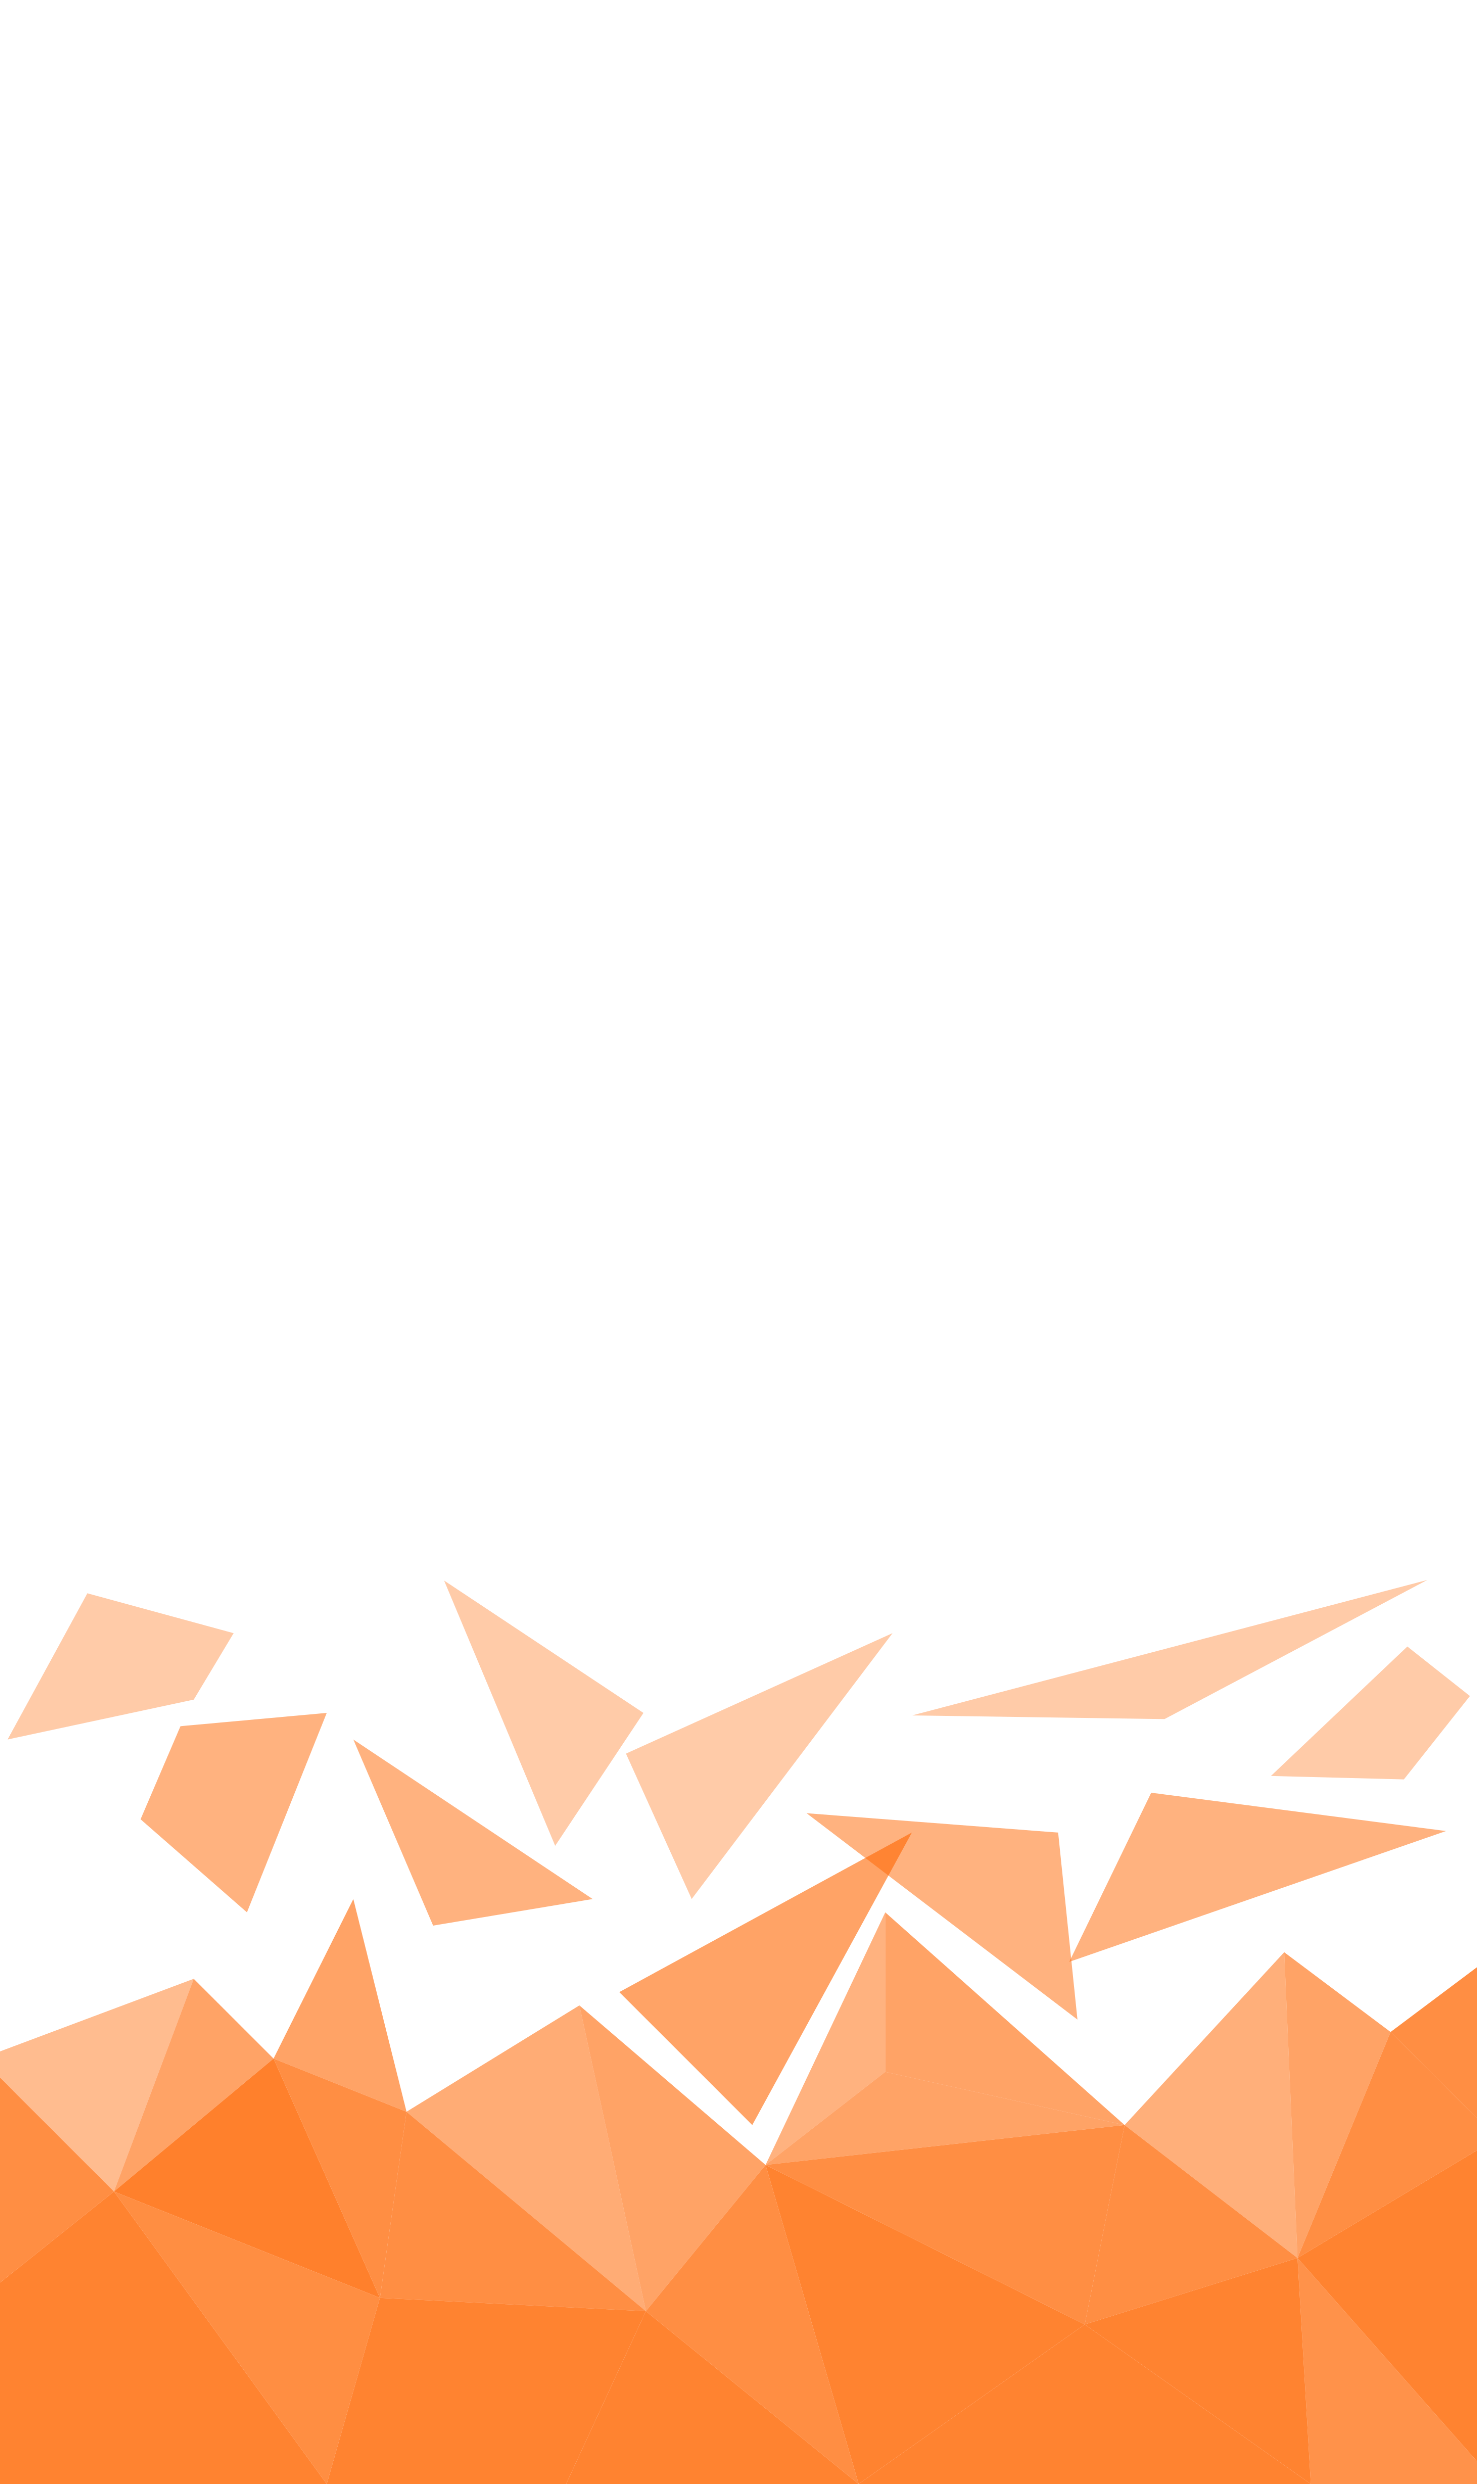
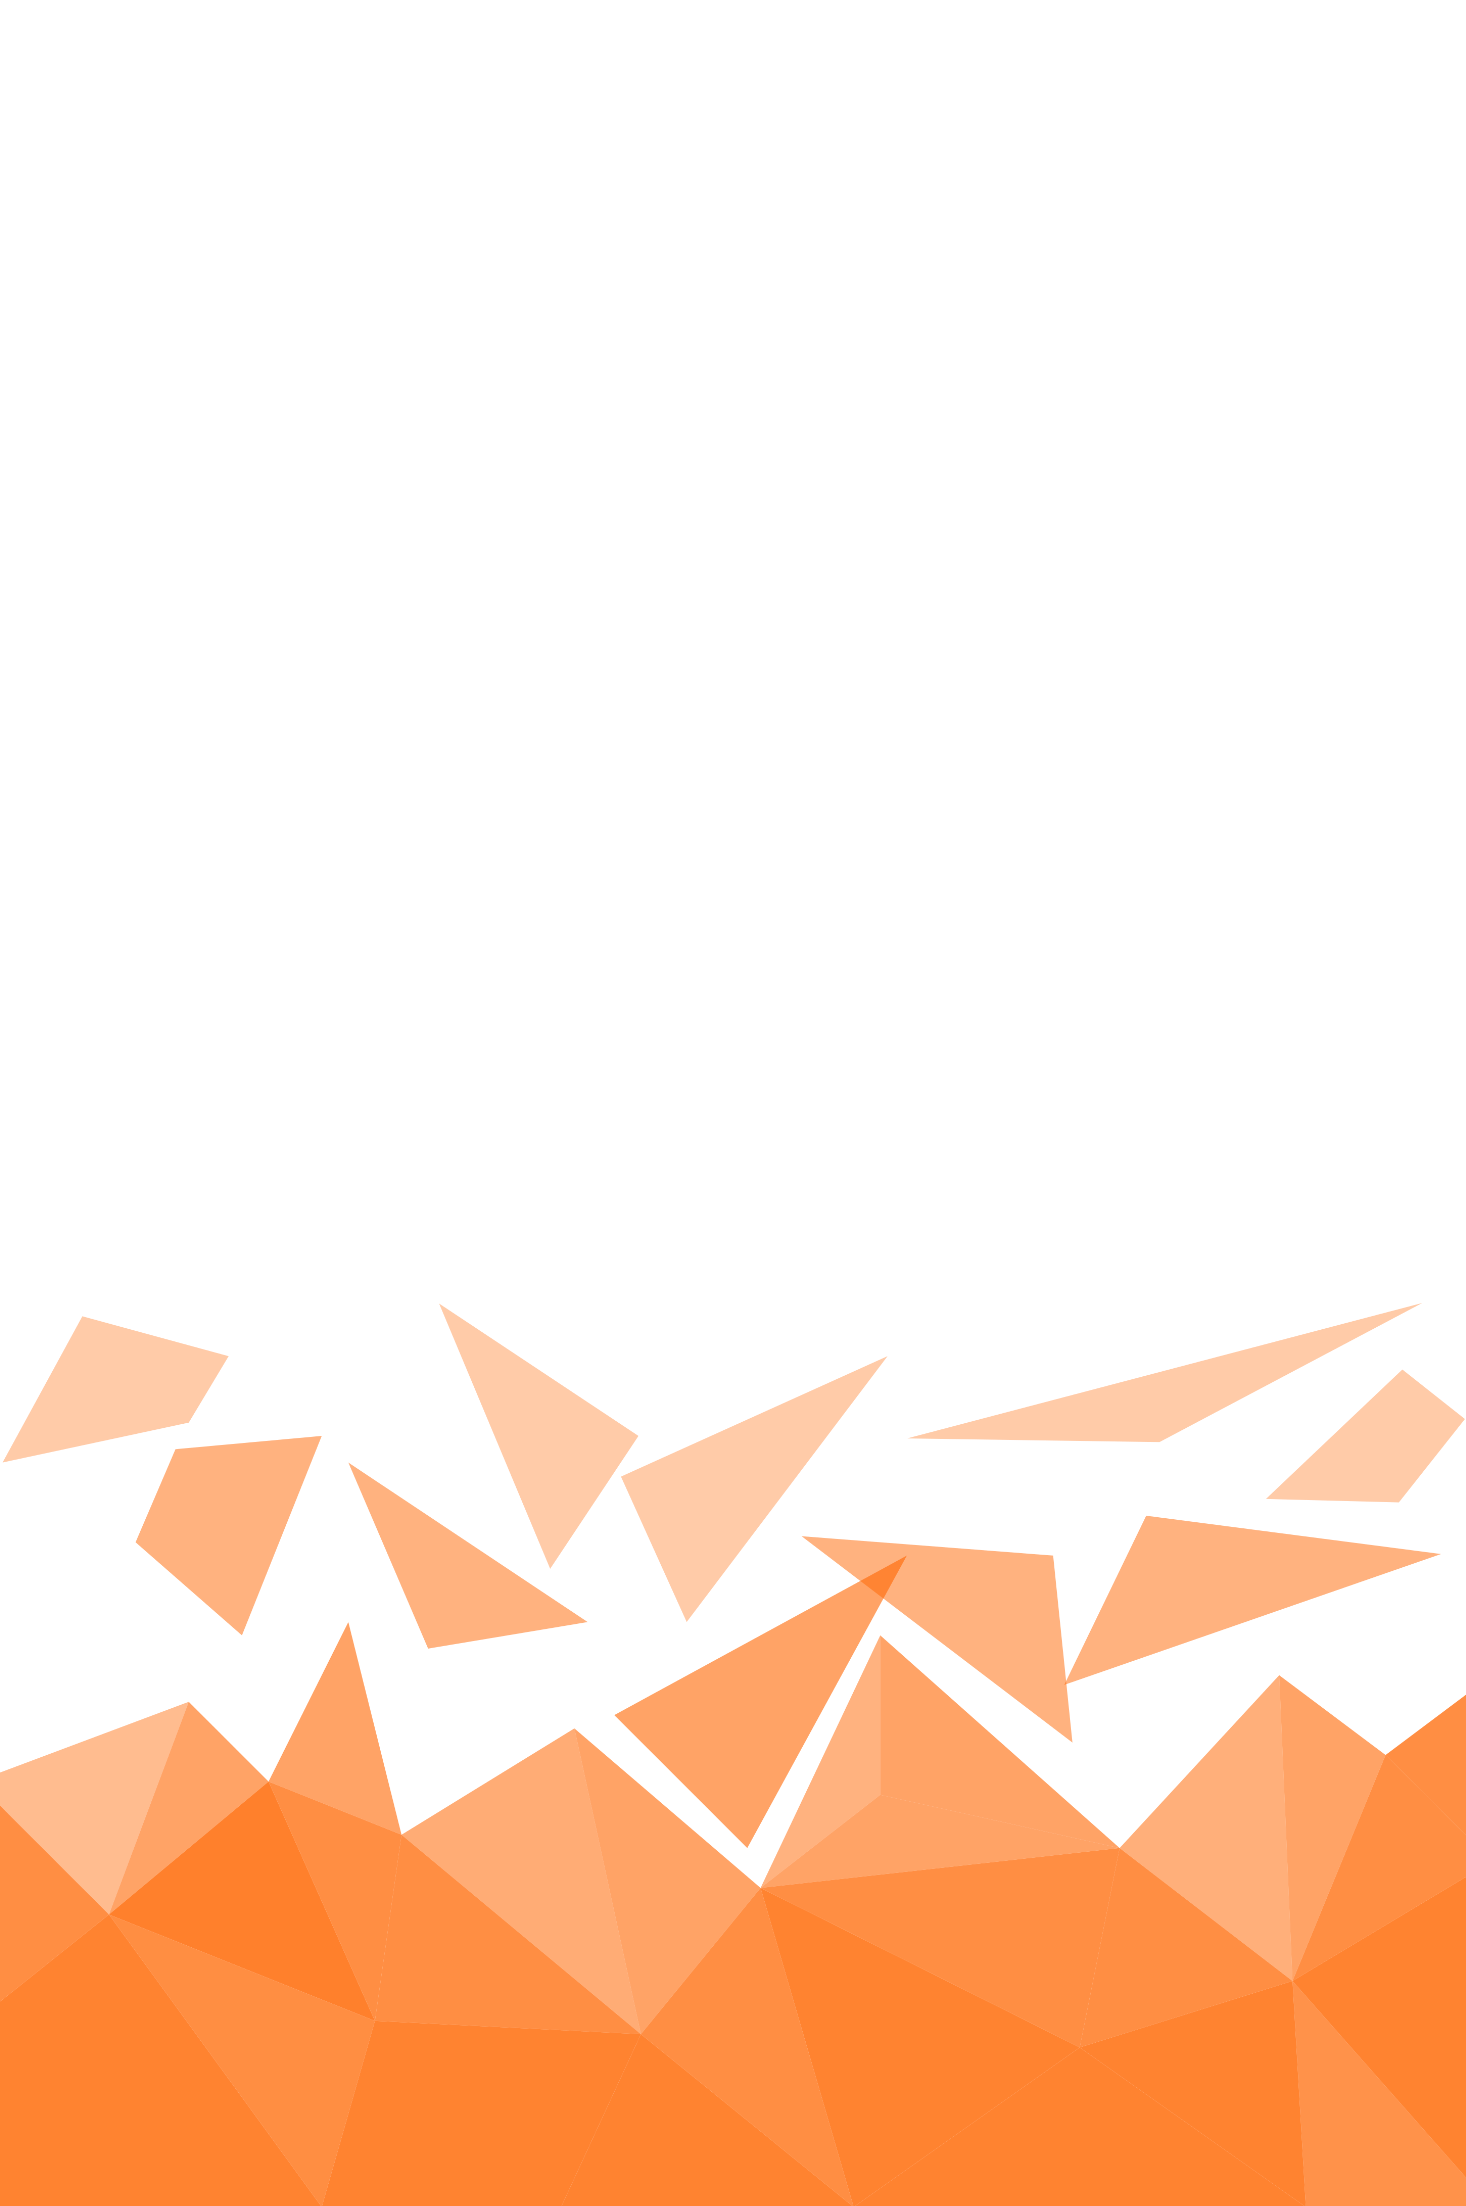
Share screen fixes

diff --git a/screens/ShareApp.js b/screens/ShareApp.js
@@ -37,7 +37,7 @@ const ShareApp = () => {
       flexDirection: 'column',
       justifyContent: 'space-between',
     }} >
-      <Block flex={0.6} >
+      <Block flex={0.4} >
         <ImageBackground
           source={Images.ProfileBackground}
           style={styles.profileContainer}
@@ -45,10 +45,10 @@ const ShareApp = () => {
         >
           <Block flex style={styles.profileCard}>
             <Block style={{ position: 'absolute', width: width, zIndex: 5, paddingHorizontal: 20 }}>
-              <Block middle style={{ top: height * 0.15 }}>
+              <Block middle style={{ top: height * 0.1 }}>
                 <Image source={Images.ProfilePicture} style={styles.avatar} />
               </Block>
-              <Block style={{ top: height * 0.2 }}>
+              <Block style={{ top: height * 0.1 }}>
                 <Block middle >
                   <Text
                     style={{
@@ -130,7 +130,7 @@ const ShareApp = () => {
             <Block
               middle
               row
-              style={{ position: 'absolute', width: width, top: height * 0.6 - 22, zIndex: 99 }}
+              style={{ position: 'absolute', width: width, top: height * 0.4 - 22, zIndex: 99 }}
             >
               <Button style={{ width: 114, height: 44, marginHorizontal: 5, elevation: 0 }} textStyle={{ fontSize: 16 }} round onPress={shareButton}>
                 Share 
@@ -164,7 +164,7 @@ const ShareApp = () => {
 
       </Block>
       <Block />
-      <Block flex={0.4} style={{ padding: theme.SIZES.BASE, marginTop: 90}}>
+      <Block flex={0.5} style={{ padding: theme.SIZES.BASE, marginTop: 10}}>
         <ScrollView showsVerticalScrollIndicator={false}>
           <Block flex style={{ marginTop: 20 }}>
             <Block middle>
@@ -193,7 +193,7 @@ const ShareApp = () => {
                   paddingHorizontal: 15
                 }}
               >
-                Three undergraduates working their best to make this country safe again. Share this app and be a part of this incredible journey with us...
+                Three undergraduates working their best to make this country safe again. Share this app and be a part of this journey with us...
                   </Text>
             </Block>
            {/*  <Block row style={{ paddingVertical: 14, paddingHorizontal: 15 }} space="between">
@@ -241,11 +241,11 @@ const styles = StyleSheet.create({
     height,
     padding: 0,
     zIndex: 1,
-    resizeMode: "contain",
+    resizeMode: "cover",
   },
   profileBackground: {
     width,
-    height: height * 0.6
+    height: height * 0.4
   },
 
   info: {

diff --git a/navigation/Screens.js b/navigation/Screens.js
@@ -133,22 +133,19 @@ function ProfileStack(props) {
 
 function ShareAppStack(props) {
   return (
-    <Stack.Navigator initialRouteName="ShareApp" mode="card" headerMode="screen">
+    <Stack.Navigator mode="card" headerMode="screen">
       <Stack.Screen
-        name="ShareApp"
+        name="Share App"
         component={ShareApp}
         options={{
           header: ({ navigation, scene }) => (
             <Header
-              transparent
-              white
-              title="ShareApp"
+              title="Share the app with your friends"
               navigation={navigation}
               scene={scene}
             />
           ),
-          cardStyle: { backgroundColor: "#FFFFFF" },
-          headerTransparent: true
+          cardStyle: { backgroundColor: "#FFFFFF" }
         }}
       />
       <Stack.Screen
